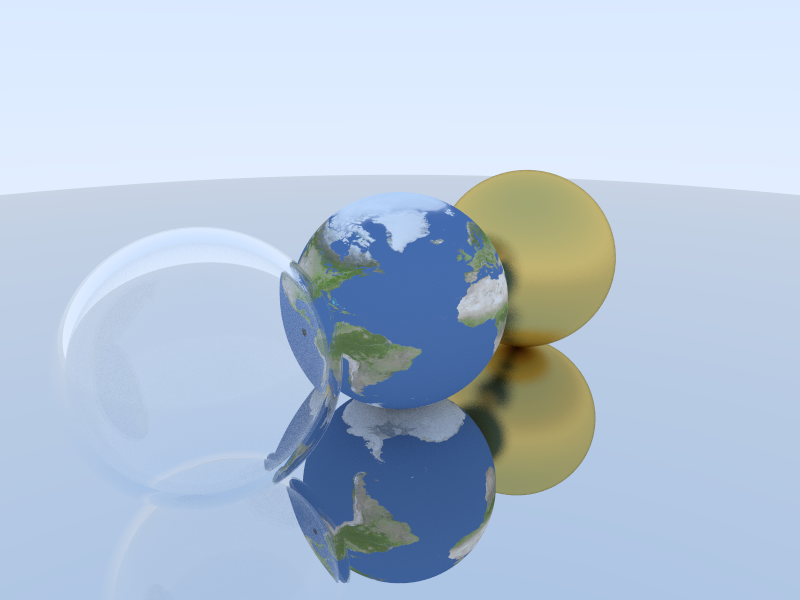
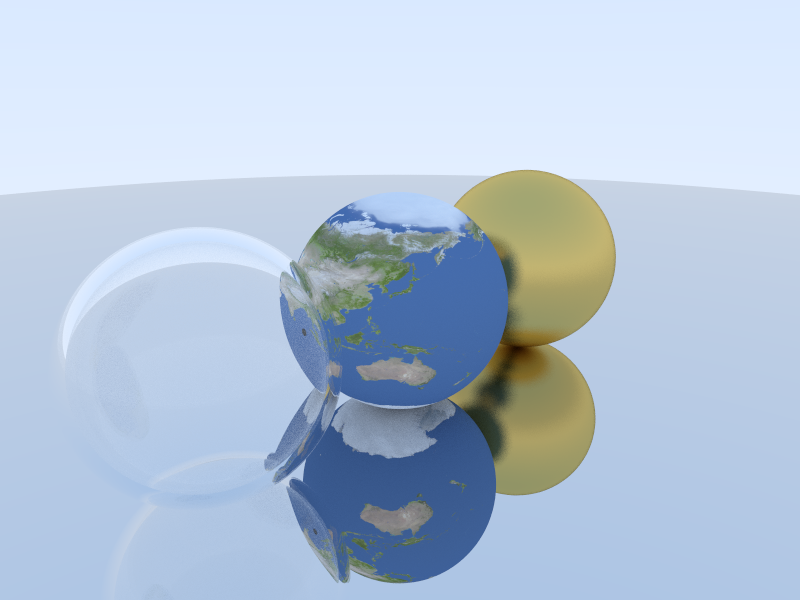
Make it possible to rotate textures.

diff --git a/raytracer/src/lib.rs b/raytracer/src/lib.rs
@@ -669,6 +669,7 @@ pub struct Texture {
     pixels: Vec<u8>,
     width: u64,
     height: u64,
+    h_offset: f64,
 }
 
 impl Texture {
@@ -683,11 +684,16 @@ impl Texture {
             pixels,
             width: metadata.width as u64,
             height: metadata.height as u64,
+            h_offset: 0.5,
         }
     }
 
     pub fn get_albedo(&self, u: f64, v: f64) -> Srgb {
-        let uu = u * (self.width) as f64;
+        let mut rot = u + self.h_offset;
+        if rot > 1.0 {
+            rot = rot - 1.0;
+        }
+        let uu = rot * (self.width) as f64;
         let vv = (1.0 - v) * (self.height - 1) as f64;
         let base_pixel =
             (3 * ((vv.floor() as u64) * self.width as u64 + (uu.floor() as u64))) as usize;
